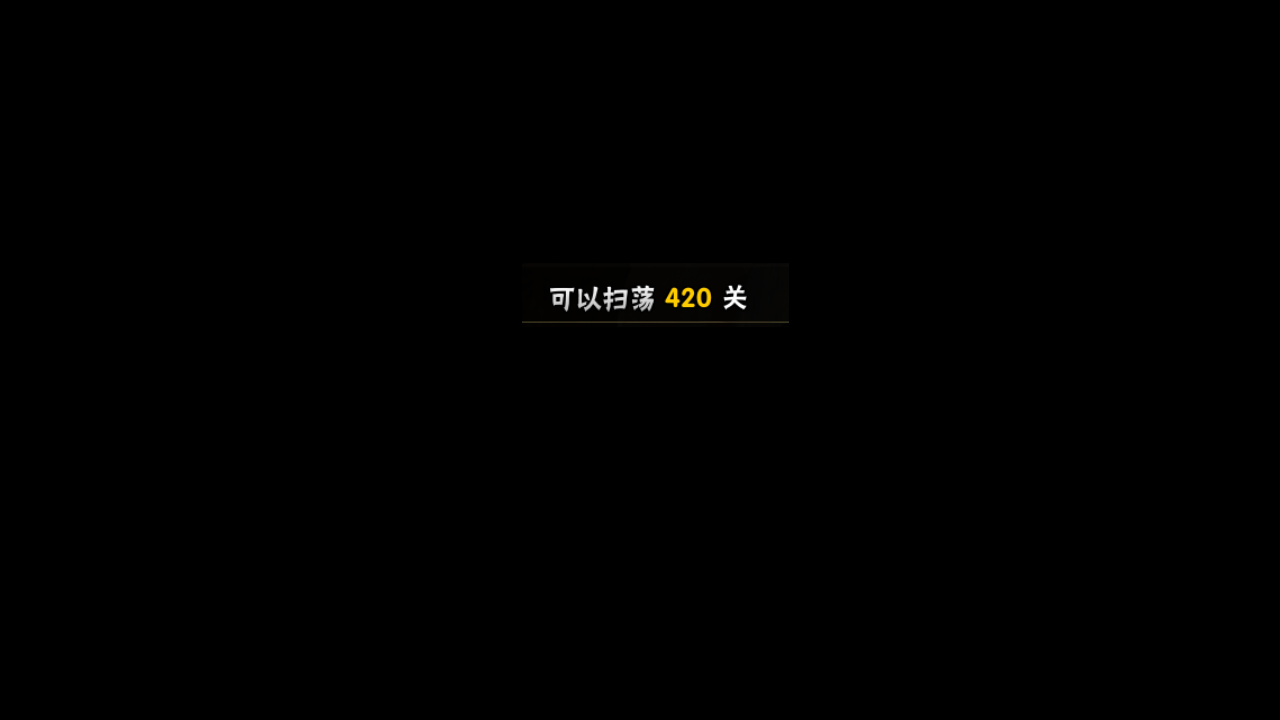
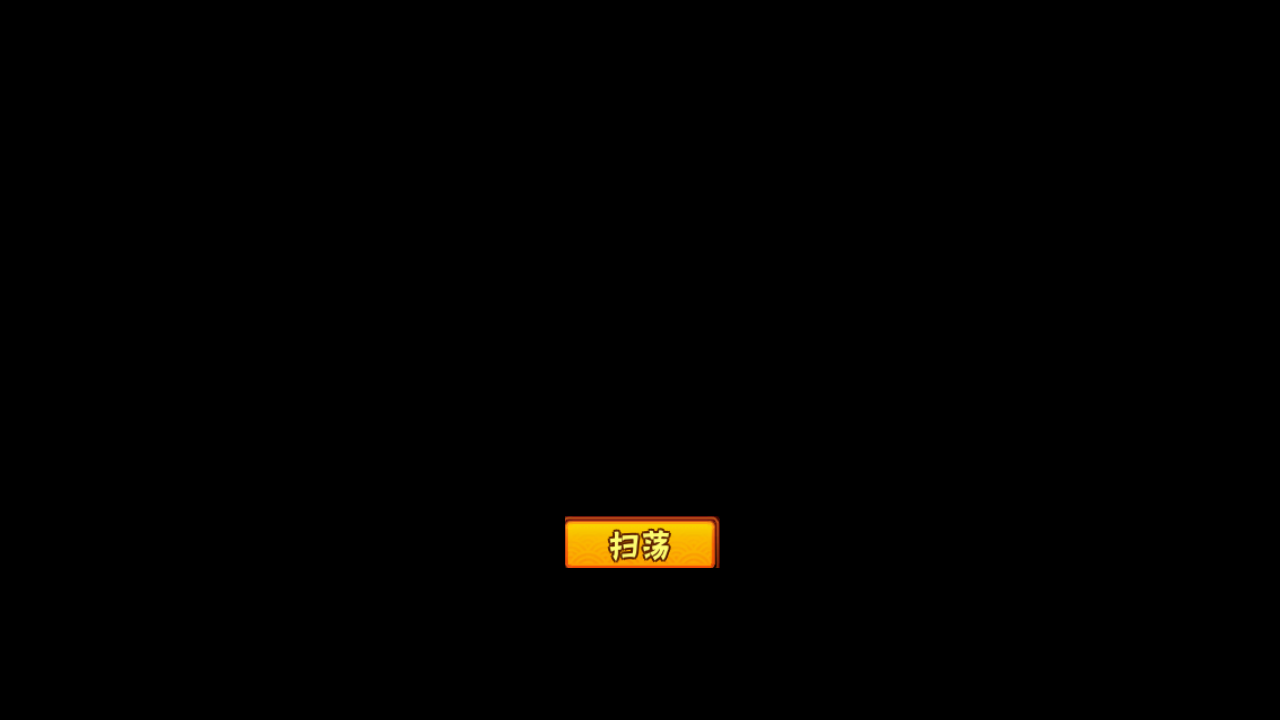
feat(trail): restructed cultivation road task

Changed region(s): [[0.4375, 0.7028, 0.5625, 0.7944], [0.4062, 0.3972, 0.5938, 0.4583]]

diff --git a/tasks/trail/cultivation.py b/tasks/trail/cultivation.py
@@ -1,19 +1,130 @@
-
-
 from module.config.utils import get_server_next_monday_update
-from tasks.base.ui import UI
-from tasks.trail.cultivation_mopup import CultivationMopUp
+from tasks.base.taskui import TaskUI
+from datetime import datetime, timedelta
+from module.config.utils import get_server_next_monday_update
+from module.ocr.ocr import Digit, Duration
+from tasks.base.assets.assets_base_page import CLOSE
+from tasks.base.page import page_cultivation
+from tasks.trail.assets.assets_trail import *
+from tasks.trail.assets.assets_trail_cultivation import *
+from tasks.base.assets.assets_base_code_second import *
 
-
-class CultivationRoad(UI):
+class CultivationRoad(TaskUI):
     def run(self):
-        flag=CultivationMopUp(self.config,self.device).handle_cultivation_mop_up()
-        if  flag:
-            monday = get_server_next_monday_update(self.config.Scheduler_ServerUpdate)
-            self.config.task_delay(target=monday)
-          
-        else :
-            self.config.task_delay(minute=120)
-            
-
+        delay_time=self.handle_cultivation_mop_up()
+        if self.config.CultivationRoad_ClearRedDot:
+            self._red_dot_clear()
+        self.config.task_delay(target=delay_time)
         self.config.task_stop()
+        
+    def handle_cultivation_mop_up(self):
+        self.device.click_record_clear()
+        self.ui_ensure(page_cultivation)
+        delay=self.is_excute_manual_before()
+        if delay:
+            return delay
+        ocr=Digit(CULTIVATION_RESET_COUNT)
+        count=ocr.ocr_single_line(self.device.image)
+        if count>0:
+            self.reset()
+            if self.mop_up_finish():
+                self.back_to_cultivation_page()
+                monday = get_server_next_monday_update(self.config.Scheduler_ServerUpdate)
+                return monday
+            self.back_to_cultivation_page()   
+            return datetime.now()+timedelta(hours=2)
+            
+        else:
+            if not self.try_mop_up():
+                self.back_to_cultivation_page()
+                monday = get_server_next_monday_update(self.config.Scheduler_ServerUpdate)
+                return monday
+            if self.mop_up_finish():
+                self.back_to_cultivation_page()
+                monday = get_server_next_monday_update(self.config.Scheduler_ServerUpdate)
+                return monday
+            self.back_to_cultivation_page() 
+            return datetime.now()+timedelta(hours=2)
+    def is_excute_manual_before(self):
+        if self.is_reward_claim():
+            self.claim_reward()
+            return False
+        if self.is_mop_up_running():
+            ocr=Duration(CULTIVATION_MOP_UP_REMAIN_TIMES)
+            delay_time=ocr.ocr_single_line(self.device.image)
+            return datetime.now()+delay_time
+        
+
+    def back_to_cultivation_page(self):
+        for _ in self.loop():
+            if self.match_template_color(CULTIVATION_BOX):
+                break
+            if self.appear_then_click(CLOSE,interval=1):
+                continue
+    def try_mop_up(self):
+        for _ in self.loop():
+            if self.appear_then_click(CULTIVATION_MOP_UP_BUTTON,interval=1):
+                continue
+            if self.appear(CULTIVATION_MOP_UP_DONE):
+                return False
+            if self.appear(CULTIVATION_RESET_MOP_UP_FINISH_NOW):
+                break
+            if self.appear(CULTIVATION_CLAIM_CHAO_YING):
+                break
+        return True
+    def mop_up_finish(self):
+        if self.appear(CULTIVATION_CLAIM_CHAO_YING):
+            self.claim_reward()
+            return True
+        if not self.config.CultivationRoad_CultivationFinish:
+            return False
+        
+        for _ in self.loop():
+            if self.appear_then_click(CULTIVATION_RESET_MOP_UP_FINISH_NOW,interval=1):
+                continue
+            if self.appear_then_click(CULTIVATION_MOP_UP_REWARD_CLAIM,interval=1):
+                continue
+            if self.appear(CODE_SECOND_PASSWORD):
+                self.handle_second_password(self.config.PanRen_SecondPassword)
+                continue
+            if self.match_template_color(CULTIVATION_MOP_UP_BUTTON):
+                break
+        return True
+        
+    def claim_reward(self):
+        for _ in self.loop():
+            if self.appear_then_click(CULTIVATION_CLAIM_CHAO_YING,interval=1):
+                continue
+            if self.appear_then_click(CULTIVATION_MOP_UP_REWARD_CLAIM,interval=1):
+                continue
+            if self.appear_then_click(CULTIVATION_MOP_UP_SUCCESS,interval=1):
+                continue
+            if self.match_template_color(CULTIVATION_MOP_UP_BUTTON):
+                break
+    def is_reward_claim(self):
+        return self.appear(CULTIVATION_CLAIM_CHAO_YING) or self.appear(CULTIVATION_MOP_UP_REWARD_CLAIM) or self.appear(CULTIVATION_MOP_UP_SUCCESS)
+    def is_mop_up_running(self):
+        
+        
+        return self.appear(CULTIVATION_RESET_MOP_UP_FINISH_NOW)
+    def reset(self):
+        for _ in self.loop():
+            if self.appear(CULTIVATION_RESET_MOP_UP_FINISH_NOW):
+                break
+            if self.appear(CULTIVATION_CLAIM_CHAO_YING):
+                break         
+            if self.appear_then_click(CULTIVATION_RESET_CONFIRM,interval=1):
+                continue
+            if self.appear_then_click(CULTIVATION_RESET_MOP_UP,interval=1):
+                continue
+            if self.match_template_color(CULTIVATION_RESET_BUTTON,interval=1):
+                self.device.click(CULTIVATION_RESET_BUTTON)
+                continue
+        return True                
+    def _red_dot_clear(self):
+        for _ in self.loop():
+            if self.appear(CULTIVATION_BOX_CHECK):
+                break
+            if self.appear(CULTIVATION_BOX):
+                self.device.click(CULTIVATION_BOX)
+                continue

diff --git a/tasks/trail/assets/assets_trail_cultivation.py b/tasks/trail/assets/assets_trail_cultivation.py
@@ -51,21 +51,21 @@ CULTIVATION_MOP_UP_DONE = ButtonWrapper(
     name='CULTIVATION_MOP_UP_DONE',
     cn=Button(
         file='./assets/cn/trail/cultivation/CULTIVATION_MOP_UP_DONE.png',
-        area=(452, 206, 544, 314),
-        search=(432, 186, 564, 334),
-        color=(97, 60, 31),
-        button=(452, 206, 544, 314),
+        area=(394, 338, 894, 378),
+        search=(374, 318, 914, 398),
+        color=(77, 79, 82),
+        button=(394, 338, 894, 378),
     ),
     en=None,
 )
-CULTIVATION_MOP_UP_RESET_TIMES = ButtonWrapper(
-    name='CULTIVATION_MOP_UP_RESET_TIMES',
+CULTIVATION_MOP_UP_REMAIN_TIMES = ButtonWrapper(
+    name='CULTIVATION_MOP_UP_REMAIN_TIMES',
     cn=Button(
-        file='./assets/cn/trail/cultivation/CULTIVATION_MOP_UP_RESET_TIMES.png',
-        area=(543, 651, 583, 692),
-        search=(523, 631, 603, 712),
-        color=(24, 26, 18),
-        button=(543, 651, 583, 692),
+        file='./assets/cn/trail/cultivation/CULTIVATION_MOP_UP_REMAIN_TIMES.png',
+        area=(528, 476, 730, 513),
+        search=(508, 456, 750, 533),
+        color=(39, 50, 38),
+        button=(528, 476, 730, 513),
     ),
     en=None,
 )
@@ -135,25 +135,36 @@ CULTIVATION_RESET_CONFIRM = ButtonWrapper(
     ),
     en=None,
 )
+CULTIVATION_RESET_COUNT = ButtonWrapper(
+    name='CULTIVATION_RESET_COUNT',
+    cn=Button(
+        file='./assets/cn/trail/cultivation/CULTIVATION_RESET_COUNT.png',
+        area=(431, 652, 575, 684),
+        search=(411, 632, 595, 704),
+        color=(84, 86, 83),
+        button=(431, 652, 575, 684),
+    ),
+    en=None,
+)
 CULTIVATION_RESET_MOP_UP = ButtonWrapper(
     name='CULTIVATION_RESET_MOP_UP',
     cn=Button(
         file='./assets/cn/trail/cultivation/CULTIVATION_RESET_MOP_UP.png',
-        area=(522, 263, 789, 327),
-        search=(502, 243, 809, 347),
-        color=(29, 27, 20),
+        area=(565, 516, 720, 568),
+        search=(545, 496, 740, 588),
+        color=(218, 145, 15),
         button=(565, 516, 720, 568),
     ),
     en=None,
 )
-CULTIVATION_RESET_MOP_UP_RUNNING = ButtonWrapper(
-    name='CULTIVATION_RESET_MOP_UP_RUNNING',
+CULTIVATION_RESET_MOP_UP_FINISH_NOW = ButtonWrapper(
+    name='CULTIVATION_RESET_MOP_UP_FINISH_NOW',
     cn=Button(
-        file='./assets/cn/trail/cultivation/CULTIVATION_RESET_MOP_UP_RUNNING.png',
-        area=(539, 275, 663, 321),
-        search=(519, 255, 683, 341),
-        color=(44, 44, 43),
-        button=(539, 275, 663, 321),
+        file='./assets/cn/trail/cultivation/CULTIVATION_RESET_MOP_UP_FINISH_NOW.png',
+        area=(556, 518, 711, 570),
+        search=(536, 498, 731, 590),
+        color=(203, 138, 24),
+        button=(556, 518, 711, 570),
     ),
     en=None,
 )

diff --git a/module/config/config_generated.py b/module/config/config_generated.py
@@ -136,6 +136,7 @@ class GeneratedConfig:
 
     # Group `CultivationRoad`
     CultivationRoad_ClearRedDot = True
+    CultivationRoad_CultivationFinish = False
 
     # Group `PanRen`
     PanRen_SecondPassword = None
